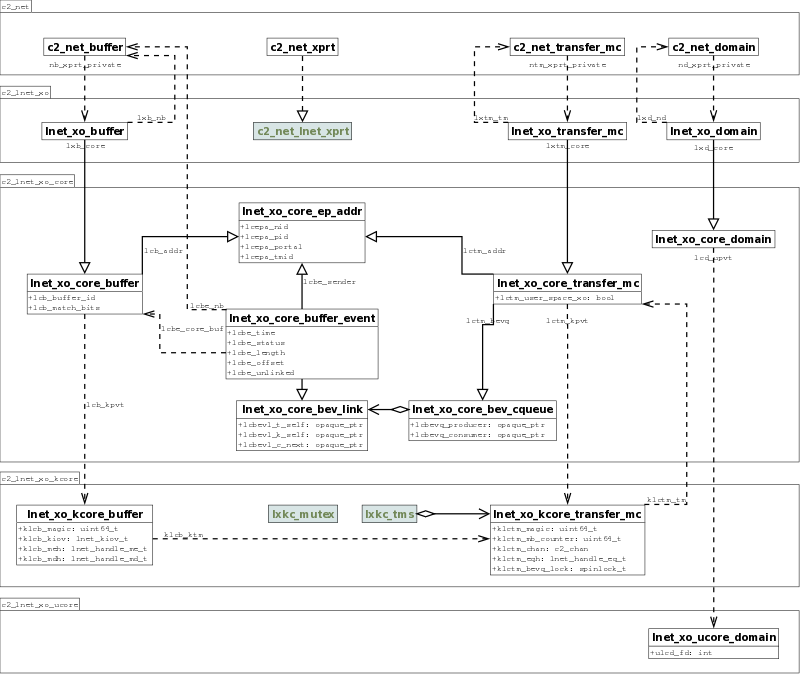
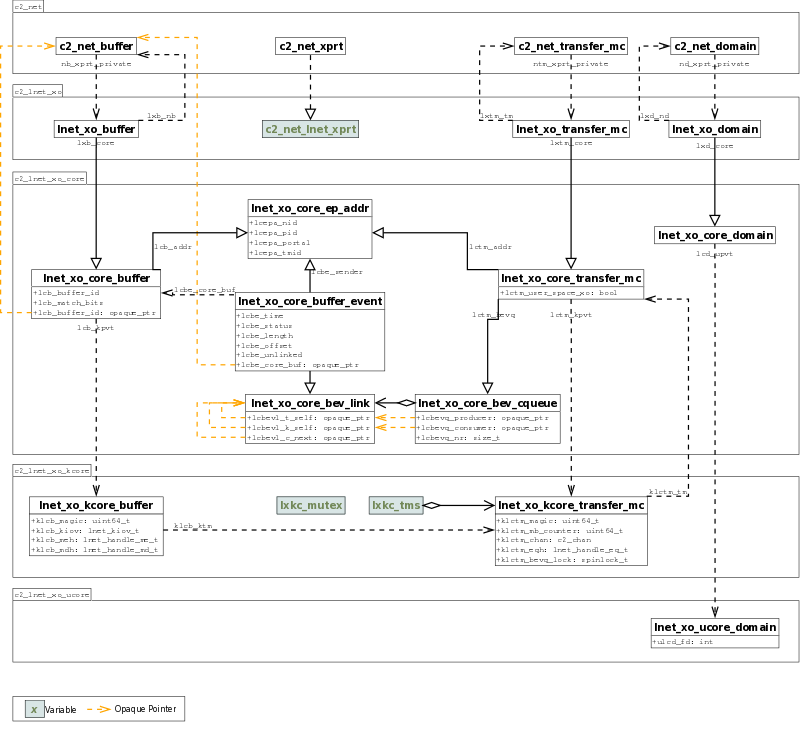
Checkpoint. - Match bit max has 13 f's in the hex representation - Updated figure with legend. Made opaque ptrs stand out. - Added ep parsing subs in core FS.

diff --git a/net/lnet/lnet_core.h b/net/lnet/lnet_core.h
@@ -84,6 +84,10 @@
      indirectly invoked.  Note that there are no equivalents for the @c
      xo_tm_init(), @c xo_tm_fini() and @c xo_tm_confine() calls.
 
+   - End point address parsing subroutines:
+     - c2_lnet_core_ep_addr_decode()
+     - c2_lnet_core_ep_addr_encode()
+
    - Buffer operation related subroutines:
      - c2_lnet_core_buf_active_recv()
      - c2_lnet_core_buf_active_send()
@@ -158,7 +162,7 @@ enum {
 	/** Minimum buffer match bit counter value */
 	C2_NET_LNET_MATCH_BIT_MIN = 1,
 	/** Maximum buffer match bit counter value: 2^^52-1; */
-	C2_NET_LNET_MATCH_BIT_MAX = 0x3ffffffffffffULL,
+	C2_NET_LNET_MATCH_BIT_MAX = 0xfffffffffffffULL,
 };
 
 /**
@@ -288,7 +292,7 @@ struct c2_lnet_core_transfer_mc {
 */
 struct c2_lnet_core_buffer {
 	/**
-	   The value of the c2_net_buffer address in the transport address
+	   The address of the c2_net_buffer structure in the transport address
 	   space. The value is set by the c2_lnet_core_buffer_register()
 	   subroutine.
 	 */

diff --git a/net/lnet/linux_kernel/klnet_core.c b/net/lnet/linux_kernel/klnet_core.c
@@ -223,7 +223,7 @@
    with that transfer machine.  The upper 12 match bits are reserved by the HLD
    to represent the transfer machine identifier. Therefore the counter is
    (64-12)=52 bits wide. The value of 0 is reserved for unsolicited
-   receive messages, so the counter range is [1,0x3ffffffffffff]. It is
+   receive messages, so the counter range is [1,0xfffffffffffff]. It is
    initialized to 1 and will wrap back to 1 when it reaches its upper bound.
 
    The transport uses the c2_lnet_core_buf_passive_recv() or the
